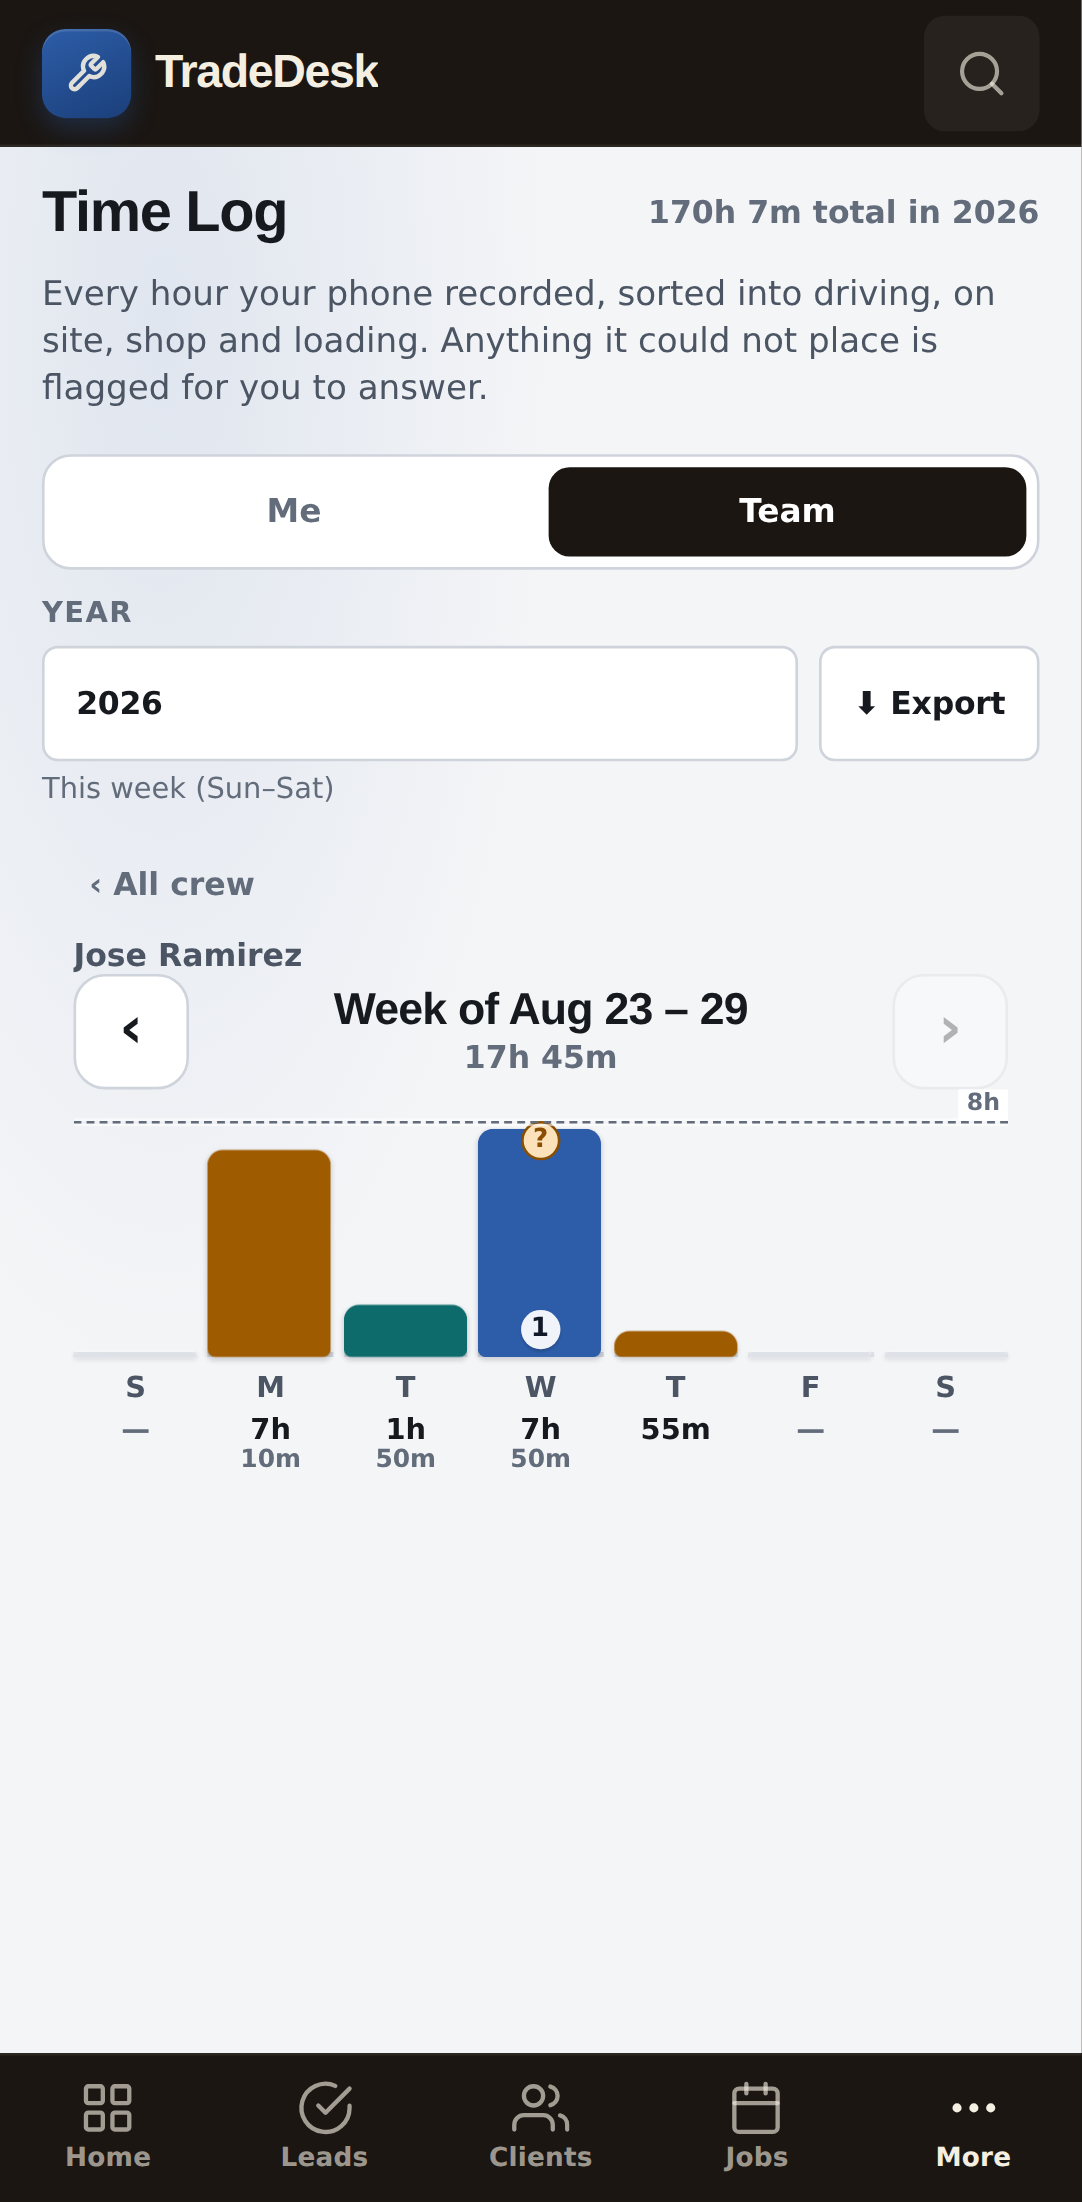
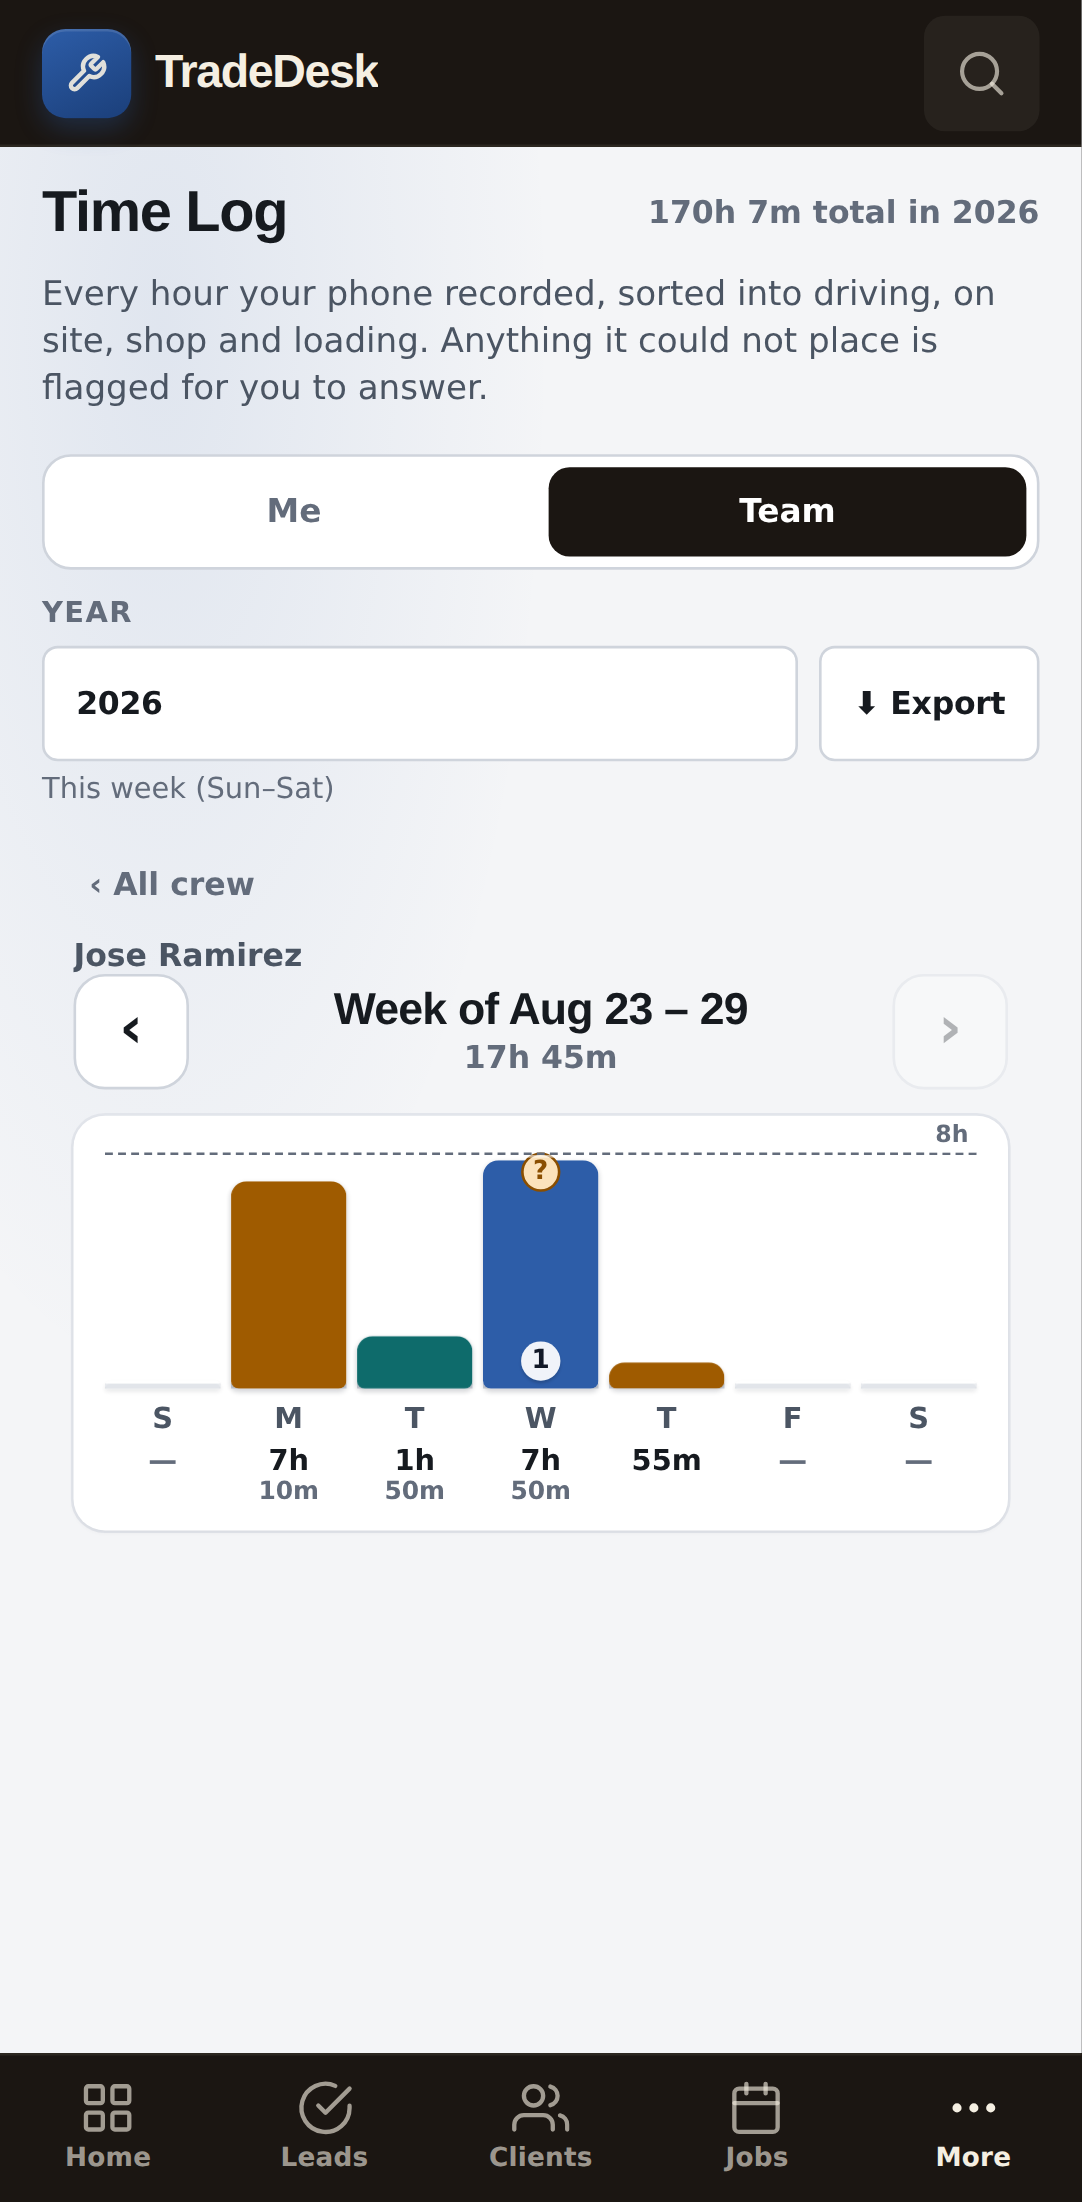
The chart had nothing to stand on [CF-Pages-Skip]
Owner: "charts are just kind of floating with no background." He is right, and
it was worse in Team, where an open crew card's bars looked like a third row in
the list rather than that person's content.

The chart is on the app's own card surface now: same background token, same
radius, same shadow every other card on every other screen uses, not a new
panel that happens to look similar (§7.3). A tint would have been the smaller
change and it cannot work, because the same chart has to read on the grey page
in Me and inside a white crew card in Team; only a card does both.

So the open crew body is tinted instead, which it needed anyway: it makes the
body read as the content of the header above it, and gives the white chart card
something to sit on.

The padding this adds is not cosmetic and is the one thing here that could go
wrong quietly. The guide line lives in an absolutely positioned overlay, which
offsets from the wrap's PADDING box, so padding the wrap without moving the
overlay puts the 40h line above every bar it is supposed to measure and the
chart lies with a straight face. One --tl-pad variable feeds both, and a test
now asserts the overlay and every column's plot share a top and a height,
because "the guide is on the right y" is not something to leave to a number
typed in two places.

Claude-Session: https://claude.ai/code/session_01PJyxD9HBp9SwyuRp3VYsqs

Changed region(s): [[0.0915, 0.4941, 0.793, 0.6794], [0.8235, 0.5867, 0.915, 0.6485], [0.854, 0.4941, 0.915, 0.525]]

diff --git a/index.html b/index.html
@@ -1193,6 +1193,10 @@ body.dark .cal-cell.other{background:var(--cream)}
 .bk-week-chev{font-size:11px;color:var(--text-3);width:14px;text-align:center;transition:transform .15s;flex-shrink:0}
 .bk-week:not(.open) .bk-week-chev{transform:rotate(-90deg)}
 .bk-week-body{border-top:1px solid var(--line);overflow:hidden;display:none;padding:2px 8px 10px 14px}
+/* An open card's body is TINTED (owner 2026-08-30). Two jobs: a white chart
+   card needs something to sit on, and the body needs to read as the content of
+   the header above it rather than as a third row in the list. */
+.bk-week.open > .bk-week-body{background:var(--bg2)}
 .bk-week.open .bk-week-body{display:block}
 /* Time Log: Me/Team toggle + the per-week day picker (owner: "need the day
    picker to change what day we're looking at") + Team-scope employee rows. */
@@ -1331,8 +1335,20 @@ body.dark .cal-cell.other{background:var(--cream)}
    _TL_BAR_H pixels of the wrap, which is exactly the height of each column's
    .tl-wbar-plot, so the guide lands on the same y as the bars measure from.
    Change one of those heights and you must change the other. */
-.tl-wbar-wrap{position:relative;margin:2px 0 0}
-.tl-wbar-plotarea{position:absolute;left:0;right:0;top:0;height:92px;pointer-events:none;z-index:3}
+/* THE CHART SITS ON SOMETHING (owner 2026-08-30: "charts are just kind of
+   floating with no background"). It is the app's own card surface, not a new
+   one: same background, same radius, same shadow token every other card on
+   every other screen uses (§7.3), so a chart reads as a panel on the grey page
+   AND inside a white crew card, which a tint could not do for both at once.
+   --tl-pad is declared here and consumed by the plot overlay below, because
+   the guide line has to land on exactly the y the columns measure from and an
+   absolutely positioned child offsets from the PADDING box. One number, two
+   readers: hard-coding it twice is how the guide drifts off the bars. */
+.tl-wbar-wrap{--tl-pad:12px;position:relative;margin:2px 0 0;
+  padding:var(--tl-pad) var(--tl-pad) 8px;
+  background:var(--bg-card);border-radius:var(--r-lg);box-shadow:var(--shadow-card)}
+.tl-wbar-plotarea{position:absolute;left:var(--tl-pad);right:var(--tl-pad);
+  top:var(--tl-pad);height:92px;pointer-events:none;z-index:3}
 /* Dark enough to read on the blue of a tall bar AND on the page behind a short
    one, with a light halo either side so it never dissolves into the bar it is
    crossing. A pale line here was invisible on exactly the long days it exists
@@ -1398,7 +1414,7 @@ body.dark .tl-wbar-guide{box-shadow:0 1px 0 rgba(0,0,0,.45),0 -1px 0 rgba(0,0,0,
   line-height:1.2;overflow:hidden;text-overflow:ellipsis;white-space:nowrap}
 /* The chart inside an expanded crew card. Padded off the card's own edges so
    the bars are not flush against the accordion border. */
-.tl-emp-bars{padding:10px 12px 6px}
+.tl-emp-bars{padding:8px 4px 4px}
 .tl-emp-nobars{padding:10px 2px;font-size:12px;color:var(--text3);font-weight:600}
 /* ── Why the bars look like objects instead of pictures ──
    Two different jobs, and they are not the same job.

diff --git a/tests/e2e-timelog-month.spec.js b/tests/e2e-timelog-month.spec.js
@@ -44,6 +44,30 @@ test.describe('month bars: the ruler and the shape', () => {
     expect(r.above, '39h must sit UNDER the 40h line, not on it').toBe(true);
   });
 
+  test('the chart sits on a surface, and the guide still lands on the bars', async ({ page }) => {
+    const r = await page.evaluate(() => {
+      const wrap = document.querySelector('.tl-wbar-wrap');
+      const cs = getComputedStyle(wrap);
+      const area = document.querySelector('.tl-wbar-plotarea').getBoundingClientRect();
+      const plots = [...document.querySelectorAll('.tl-wbar-plot')]
+        .map(e => e.getBoundingClientRect());
+      return { bg: cs.backgroundColor, radius: parseFloat(cs.borderTopLeftRadius),
+               areaTop: Math.round(area.top), areaH: Math.round(area.height),
+               plotTops: plots.map(p => Math.round(p.top)),
+               plotHs: plots.map(p => Math.round(p.height)) };
+    });
+    // Owner 2026-08-30: "charts are just kind of floating with no background."
+    expect(r.bg).not.toBe('rgba(0, 0, 0, 0)');
+    expect(r.radius).toBeGreaterThan(0);
+    // And the reason that is riskier than it looks: the plot overlay is
+    // absolutely positioned, so it offsets from the wrap's PADDING box. Give
+    // the wrap padding without moving the overlay and the 40h line floats
+    // above every bar it is supposed to measure. Same y, same height, or the
+    // guide is lying.
+    r.plotTops.forEach(t => expect(Math.abs(t - r.areaTop)).toBeLessThanOrEqual(1));
+    r.plotHs.forEach(h => expect(Math.abs(h - r.areaH)).toBeLessThanOrEqual(1));
+  });
+
   test('_tlBarCeiling: the floor is a floor, and junk never becomes one', async ({ page }) => {
     const r = await page.evaluate(() => ({
       // 40h floor holds a light month down to scale.

diff --git a/js/cloud.js b/js/cloud.js
@@ -634,7 +634,7 @@ const _supaMode=(()=>{try{return localStorage.getItem('zp3_supa_mode');}catch(_e
 // `let` so the supaInit auto-fallback can flip it to the proxy before the client is built.
 let SUPA_URL = (_supaMode==='proxy') ? _SUPA_PROXY_URL : _SUPA_DIRECT_URL;
 const SUPA_KEY = 'sb_publishable_kaahEa5tFydocUuYi8plHg_K78HPyvJ';
-const APP_VERSION='08.30.26.25';
+const APP_VERSION='08.30.26.26';
 let _supa=null,_supaUser=null,_syncTimer=null,_syncStatus='local',_supaCloudLoaded=false,_lastLocalSaveAt=0;
 let _syncBroadcastChannel=null,_realtimeSubscribed=false,_loadInProgress=false,_activeLoadPromise=null,_broadcastReloadTimer=null,_broadcastPending=false,_reconcileTimer=null,_writeCacheTimer=null,_rtRenderTimer=null;
 // True only for the window between an in-tab sign-in landing on the dashboard

diff --git a/sw.js b/sw.js
@@ -1,4 +1,4 @@
-const CACHE = 'tradedesk-08.30.26.25';
+const CACHE = 'tradedesk-08.30.26.26';
 
 // Safari WebKit rejects any cached response with redirected:true when the SW
 // tries to serve it for a navigation. new Response() always has redirected:false.
